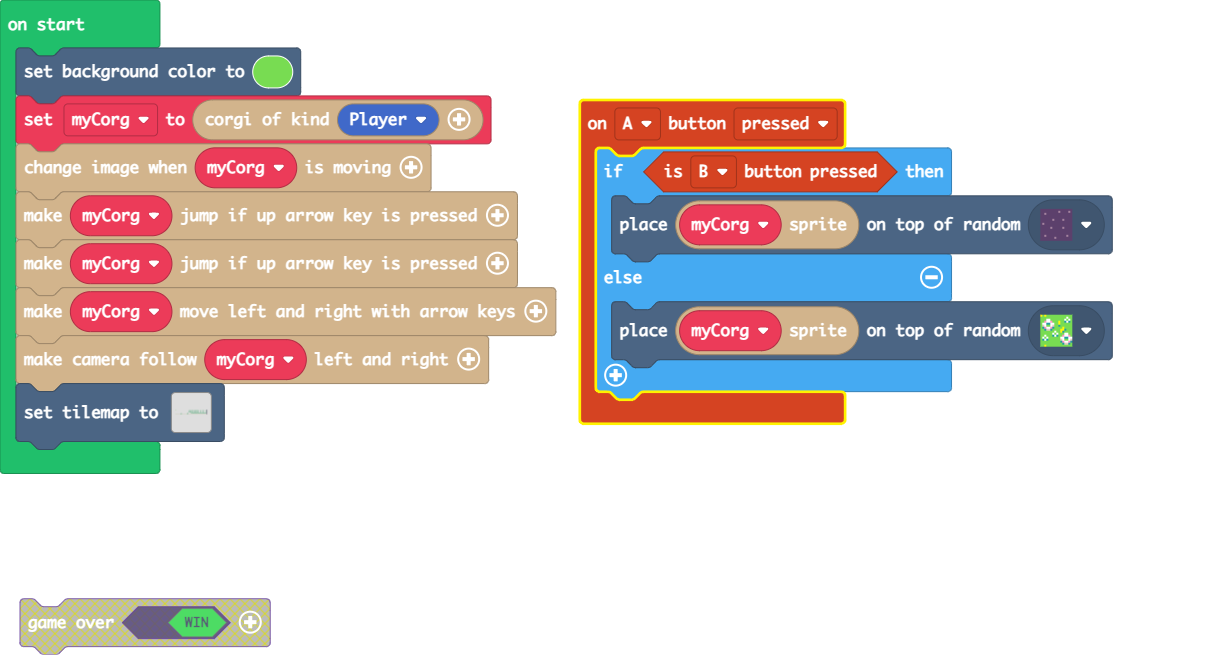
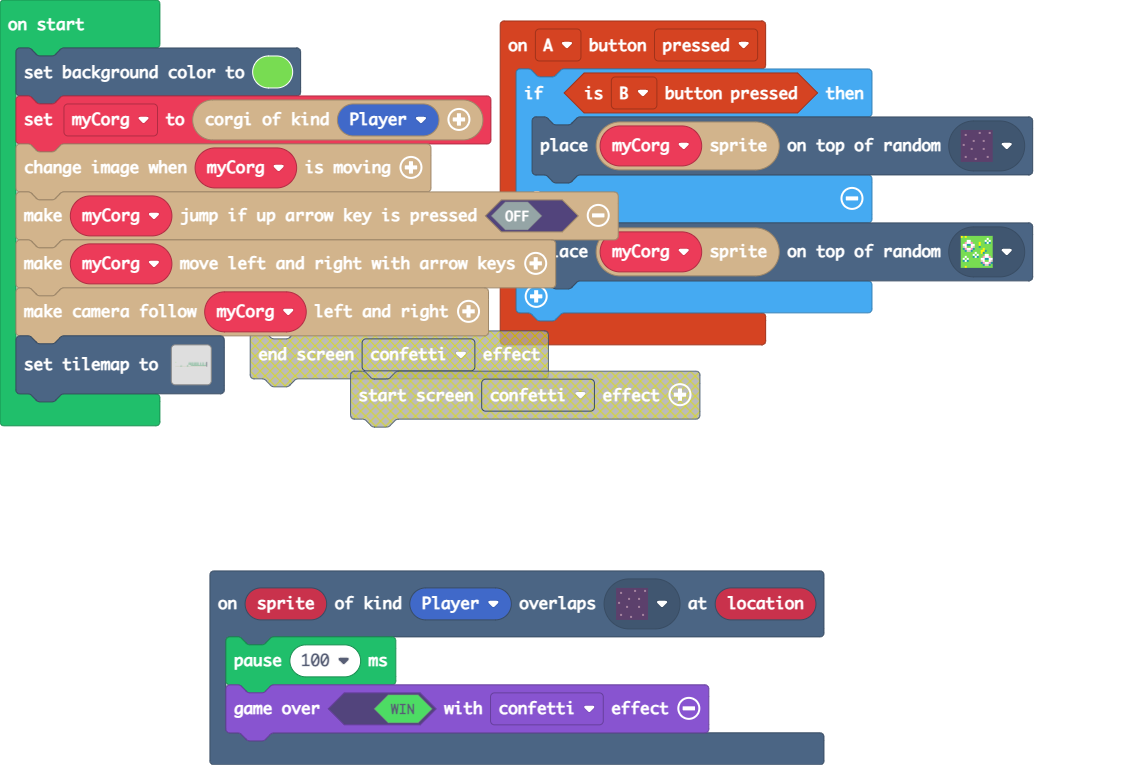
win

diff --git a/main.ts b/main.ts
@@ -5,12 +5,15 @@ controller.A.onEvent(ControllerButtonEvent.Pressed, function () {
         tiles.placeOnRandomTile(myCorg.sprite, sprites.castle.tileGrass2)
     }
 })
+scene.onOverlapTile(SpriteKind.Player, sprites.dungeon.darkGroundCenter, function (sprite, location) {
+    pause(100)
+    game.over(true, effects.confetti)
+})
 let myCorg: Corgio = null
 scene.setBackgroundColor(7)
 myCorg = corgio.create(SpriteKind.Player)
 myCorg.updateSprite()
-myCorg.verticalMovement()
-myCorg.verticalMovement()
+myCorg.verticalMovement(false)
 myCorg.horizontalMovement()
 myCorg.follow()
 tiles.setTilemap(tiles.createTilemap(hex`33000800060000000000000000000000000000000000000000000000000000000000000000000000000000000000000000000000000005000000000000000000000000000000000000000000000300000300000300000300030000030000000300000003000000000305000000000000000000000000000000000000000000000300000300000300000300030000030000000300000003000000000305000000000000000000000000000000000000000000030303030300000300000300030000030000000300000003000000000305000000000000000000000000000000000000000000000000000300000300000300030000030000000300000003000000000305000000000000000000000000000000000000000300000000000303030303030303030303030303030303030303030303030305000000000000000000030000000000000000000300000000000000000000000000000000000000000000000000000000000005020101010101010104030201010101010101040302010101010101010101010101010101010101010101010101010101010105`, img`
